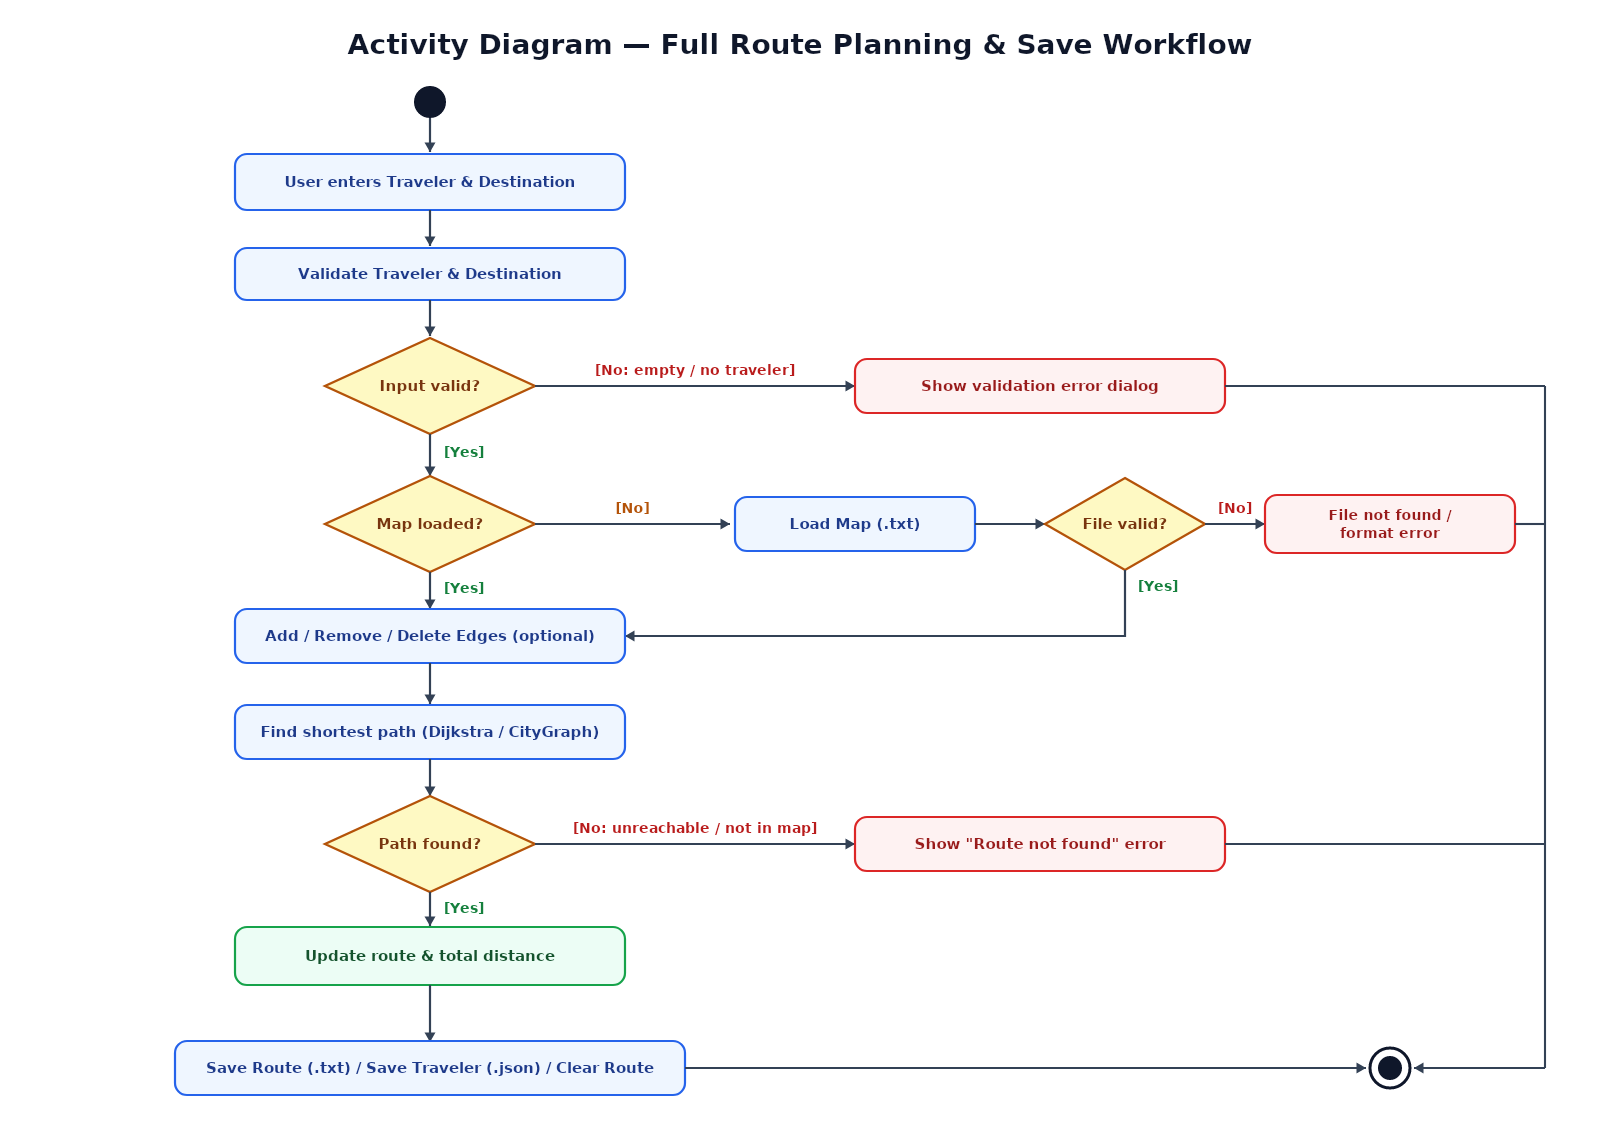
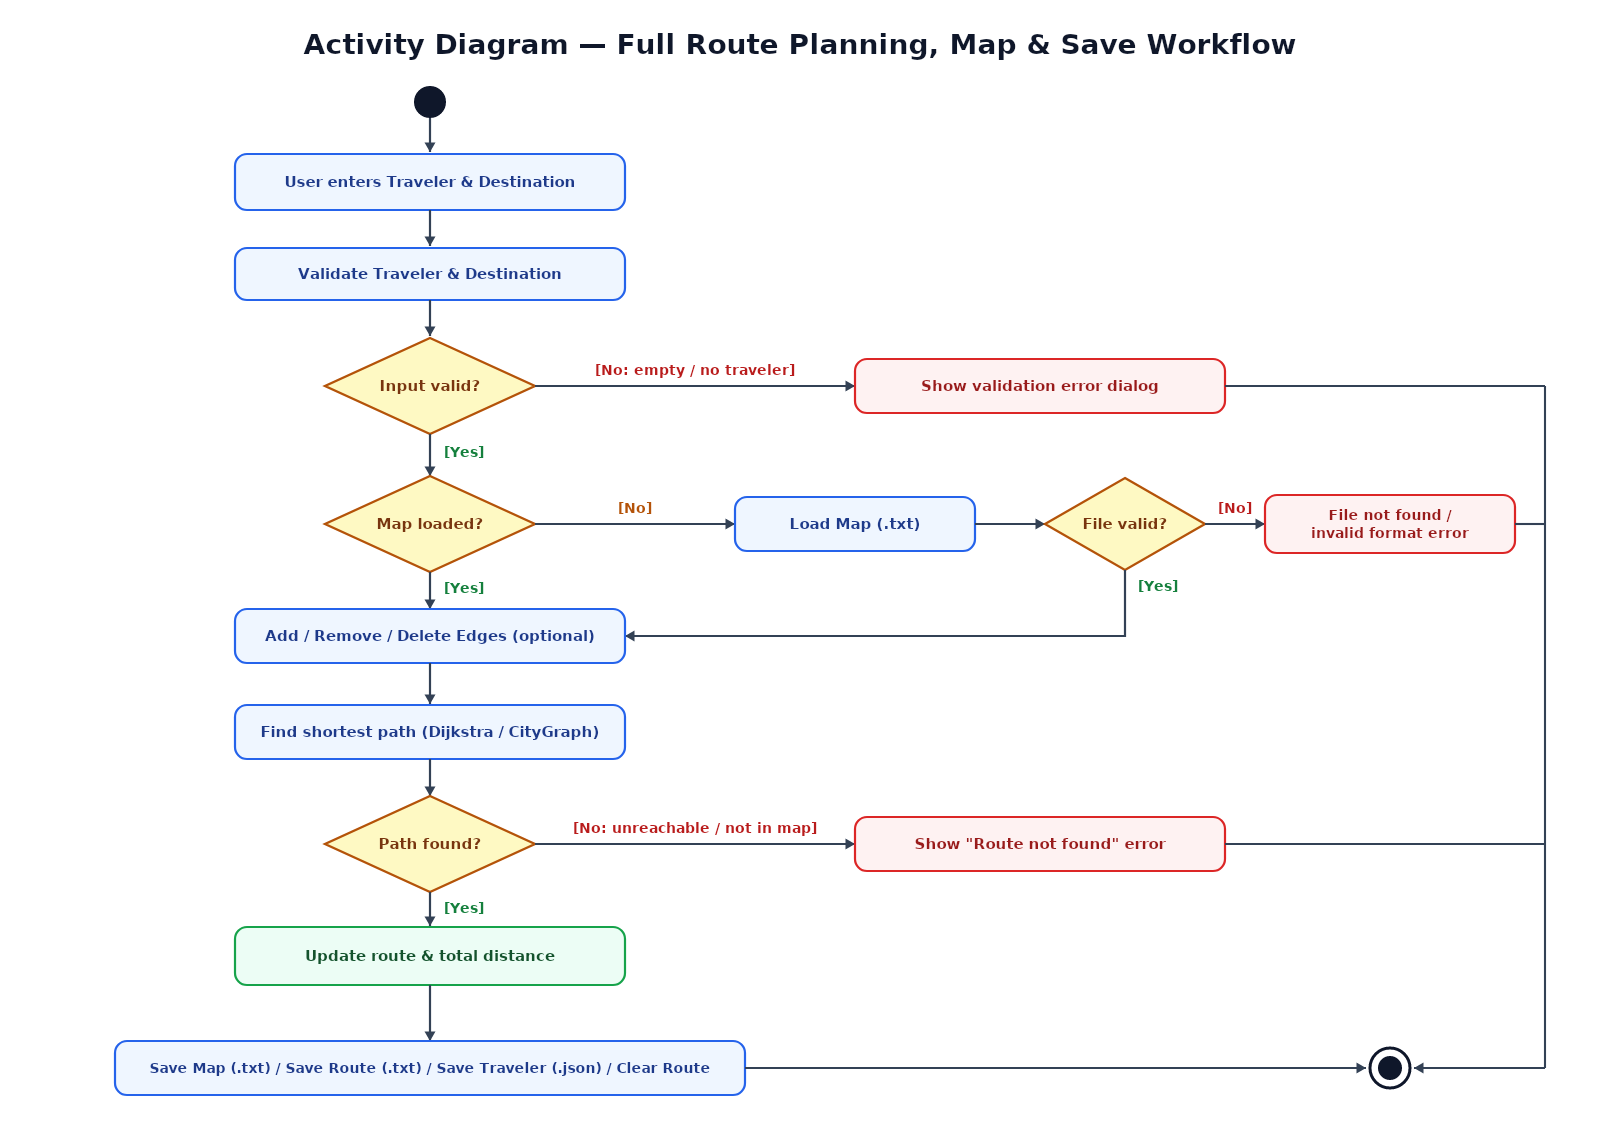
feat: implement Save Map functionality with error handling and tests

diff --git a/t00/SmartTravelPlanner.Tests/ViewModels/RoutePlannerViewModelTests.cs b/t00/SmartTravelPlanner.Tests/ViewModels/RoutePlannerViewModelTests.cs
@@ -457,4 +457,115 @@ public class RoutePlannerViewModelTests
             }
         }
     }
+
+    [Fact]
+    [Trait("Category", "negative")]
+    [Trait("Category", "boundary")]
+    public async Task LoadMap_WhenFileHasNoValidEdges_ShowsMapError()
+    {
+        var dialogService = Substitute.For<IDialogService>();
+        var fileDialogService = Substitute.For<IFileDialogService>();
+        string invalidFile = MapFaker.CreateTempMapFile(
+            "Traveler: Alice",
+            "Current Location: Kyiv",
+            "Route: Kyiv -> Lviv",
+            "Total Distance: 540 km");
+
+        try
+        {
+            fileDialogService.OpenFileDialogAsync(
+                    DialogTitles.LoadCityMap,
+                    FileFilterConstants.TxtExtension,
+                    FileFilterConstants.TxtFilterDescription)
+                .Returns(invalidFile);
+
+            var vm = new RoutePlannerViewModel(dialogService, fileDialogService, () => null);
+
+            await vm.LoadMapCommand.ExecuteAsync(null);
+
+            vm.CurrentMap.ShouldBeNull();
+            vm.LoadedMapInfo.ShouldBe("Failed to load map");
+            await dialogService.Received(1)
+                .ShowMessageAsync(
+                    DialogTitles.MapError,
+                    AppMessages.FailedToLoadMapError(AppMessages.InvalidMapFileFormatError));
+        }
+        finally
+        {
+            if (File.Exists(invalidFile)) File.Delete(invalidFile);
+        }
+    }
+
+    [Fact]
+    [Trait("Category", "negative")]
+    [Trait("Category", "boundary")]
+    public async Task SaveMap_WhenNoMapLoaded_ShowsError()
+    {
+        var dialogService = Substitute.For<IDialogService>();
+        var fileDialogService = Substitute.For<IFileDialogService>();
+        var vm = new RoutePlannerViewModel(dialogService, fileDialogService, () => null);
+
+        await vm.SaveMapCommand.ExecuteAsync(null);
+
+        await dialogService.Received(1)
+            .ShowMessageAsync(DialogTitles.Error, AppMessages.NoMapToSaveError);
+    }
+
+    [Fact]
+    [Trait("Category", "positive")]
+    [Trait("Category", "integration")]
+    public async Task SaveMap_WhenValidMap_WritesLoadableTxtFileAndShowsSuccess()
+    {
+        var dialogService = Substitute.For<IDialogService>();
+        var fileDialogService = Substitute.For<IFileDialogService>();
+        var tempFile = Path.Combine(Path.GetTempPath(), $"map_save_test_{System.Guid.NewGuid():N}.txt");
+        fileDialogService.SaveFileDialogAsync(
+                DialogTitles.SaveMap,
+                FileFilterConstants.DefaultMapFileName,
+                FileFilterConstants.TxtExtension)
+            .Returns(tempFile);
+        fileDialogService.OpenFileDialogAsync(
+                DialogTitles.LoadCityMap,
+                FileFilterConstants.TxtExtension,
+                FileFilterConstants.TxtFilterDescription)
+            .Returns(tempFile);
+
+        var graph = new CityGraph();
+        graph.AddEdge("Kyiv", "Lviv", 540);
+        graph.AddEdge("Lviv", "Warsaw", 390);
+
+        var vm = new RoutePlannerViewModel(dialogService, fileDialogService, () => null)
+        {
+            CurrentMap = graph
+        };
+
+        try
+        {
+            await vm.SaveMapCommand.ExecuteAsync(null);
+
+            File.Exists(tempFile).ShouldBeTrue();
+            var lines = await File.ReadAllLinesAsync(tempFile, TestContext.Current.CancellationToken);
+            lines.ShouldBe(["Kyiv-Lviv,540", "Lviv-Warsaw,390"]);
+
+            await dialogService.Received(1)
+                .ShowMessageAsync(DialogTitles.Saved, AppMessages.MapSavedSuccess(tempFile));
+
+            var reloadVm = new RoutePlannerViewModel(
+                Substitute.For<IDialogService>(),
+                fileDialogService,
+                () => null);
+            await reloadVm.LoadMapCommand.ExecuteAsync(null);
+
+            reloadVm.CurrentMap.ShouldNotBeNull();
+            reloadVm.CurrentMap.HasEdge("Kyiv", "Lviv").ShouldBeTrue();
+            reloadVm.CurrentMap.HasEdge("Lviv", "Warsaw").ShouldBeTrue();
+        }
+        finally
+        {
+            if (File.Exists(tempFile))
+            {
+                File.Delete(tempFile);
+            }
+        }
+    }
 }

diff --git a/t00/SmartTravelPlanner/ViewModels/RoutePlannerViewModel.cs b/t00/SmartTravelPlanner/ViewModels/RoutePlannerViewModel.cs
@@ -1,6 +1,7 @@
 using System;
 using System.Collections.ObjectModel;
 using System.IO;
+using System.Linq;
 using System.Threading.Tasks;
 
 using CommunityToolkit.Mvvm.ComponentModel;
@@ -79,7 +80,13 @@ public partial class RoutePlannerViewModel(
         await _dialogService.ExecuteWithDialogAsync(
             action: () =>
             {
-                CurrentMap = CityGraph.LoadFromFile(filePath);
+                var loadedMap = CityGraph.LoadFromFile(filePath);
+                if (loadedMap.GetUniqueEdges().Count == 0)
+                {
+                    throw new InvalidDataException(AppMessages.InvalidMapFileFormatError);
+                }
+
+                CurrentMap = loadedMap;
                 LoadedMapInfo = $"Map: {Path.GetFileName(filePath)}";
                 UpdateMapDisplay(CurrentMap);
                 return AppMessages.MapLoadedSuccess(filePath);
@@ -92,6 +99,39 @@ public partial class RoutePlannerViewModel(
                 CurrentMap = null;
                 LoadedMapInfo = "Failed to load map";
             });
+    }
+
+    [RelayCommand]
+    public async Task SaveMapAsync()
+    {
+        if (CurrentMap is null || CurrentMap.GetUniqueEdges().Count == 0)
+        {
+            await _dialogService.ShowMessageAsync(DialogTitles.Error, AppMessages.NoMapToSaveError);
+            return;
+        }
+
+        var filePath = await _fileDialogService.SaveFileDialogAsync(
+            DialogTitles.SaveMap,
+            FileFilterConstants.DefaultMapFileName,
+            FileFilterConstants.TxtExtension);
+
+        if (string.IsNullOrEmpty(filePath))
+        {
+            return;
+        }
+
+        await _dialogService.ExecuteWithDialogAsync(
+            action: () =>
+            {
+                var lines = CurrentMap.GetUniqueEdges()
+                    .Select(edge => $"{edge.From}-{edge.To},{edge.Distance}");
+                File.WriteAllLines(filePath, lines);
+                LoadedMapInfo = $"Map: {Path.GetFileName(filePath)}";
+                return AppMessages.MapSavedSuccess(filePath);
+            },
+            successTitle: DialogTitles.Saved,
+            errorTitle: DialogTitles.SaveError,
+            formatError: ex => AppMessages.FailedToSaveMapError(ex.Message));
     }
 
     [RelayCommand]

diff --git a/t00/SmartTravelPlanner/Constants/AppMessages.cs b/t00/SmartTravelPlanner/Constants/AppMessages.cs
@@ -15,12 +15,18 @@ public static class AppMessages
     public static string FailedToSaveFileError(string error) => $"Failed to save traveler:\n{error}";
     public static string RouteSavedSuccess(string path) => $"Route successfully saved to:\n{path}";
     public static string FailedToSaveRouteError(string error) => $"Failed to save route:\n{error}";
+    public static string MapSavedSuccess(string path) => $"Map successfully saved to:\n{path}";
+    public static string FailedToSaveMapError(string error) => $"Failed to save map:\n{error}";
+
+    public const string InvalidMapFileFormatError =
+        "No valid map connections found. Each line must use the format: CityA-CityB,Distance (e.g. Kyiv-Lviv,540).";
 
     public const string TravelerNotCreatedError = "Please create or load a traveler first!";
     public const string MapNotLoadedError = "Please load a city map (.txt file) first!";
     public const string NoTravelerToDeleteError = "No traveler to delete!";
     public const string NoTravelerToSaveError = "No traveler to save. Please create a traveler first!";
     public const string NoRouteToSaveError = "No route to save. Please plan a route first!";
+    public const string NoMapToSaveError = "No map to save. Please load or add edges to a map first!";
 
     public const string DefaultTravelerStatus = "No traveler created yet.";
     public const string DefaultMapStatus = "Map not loaded";

diff --git a/t00/SmartTravelPlanner/ViewModels/MainViewModel.cs b/t00/SmartTravelPlanner/ViewModels/MainViewModel.cs
@@ -59,6 +59,7 @@ public partial class MainViewModel : ViewModelBase
     public TravelerDetailsViewModel TravelerDetails { get; }
     public RoutePlannerViewModel RoutePlanner { get; }
     public IAsyncRelayCommand LoadMapCommand => RoutePlanner.LoadMapCommand;
+    public IAsyncRelayCommand SaveMapCommand => RoutePlanner.SaveMapCommand;
     public IAsyncRelayCommand CreateTravelerCommand => TravelerDetails.CreateTravelerCommand;
     public IAsyncRelayCommand SaveTravelerCommand => TravelerDetails.SaveTravelerCommand;
     public IAsyncRelayCommand LoadTravelerCommand => TravelerDetails.LoadTravelerCommand;

diff --git a/t00/SmartTravelPlanner/Constants/FileFilterConstants.cs b/t00/SmartTravelPlanner/Constants/FileFilterConstants.cs
@@ -6,6 +6,7 @@ public static class FileFilterConstants
     public const string JsonExtension = "json";
     public const string JsonFilterDescription = "JSON files (*.json)";
 
+    public const string DefaultMapFileName = "map.txt";
     public const string DefaultRouteFileName = "route.txt";
     public const string TxtExtension = "txt";
     public const string TxtFilterDescription = "Text files (*.txt)";

diff --git a/t00/SmartTravelPlanner/Constants/DialogTitles.cs b/t00/SmartTravelPlanner/Constants/DialogTitles.cs
@@ -15,6 +15,7 @@ public static class DialogTitles
     public const string SaveTraveler = "Save Traveler";
     public const string LoadTraveler = "Load Traveler";
     public const string SaveRoute = "Save Route";
+    public const string SaveMap = "Save City Map";
 
     public const string TravelerLoaded = "Traveler Loaded";
     public const string LoadCityMap = "Load City Map";
